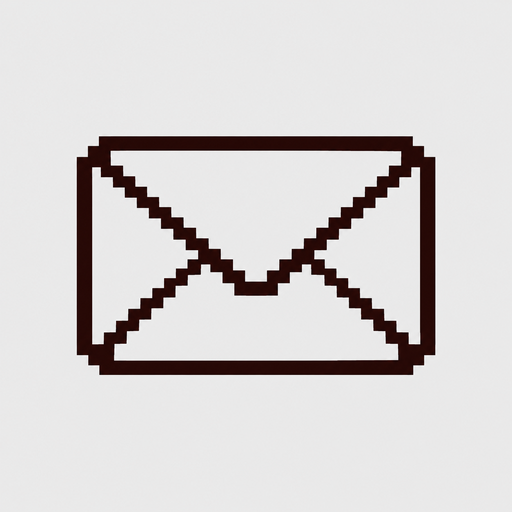
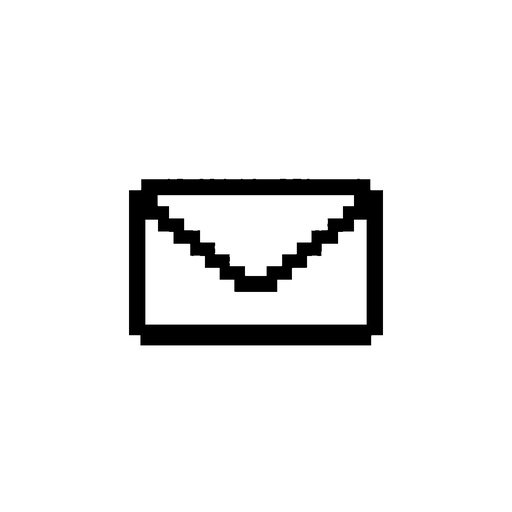
Add files via upload

Changed region(s): [[0.125, 0.25, 0.875, 0.75]]

diff --git a/index.html b/index.html
@@ -6,9 +6,9 @@
 <meta name="robots" content="noindex,nofollow">
 <meta name="referrer" content="no-referrer">
 <title>2002kids | 문자보관함</title>
-<link rel="icon" type="image/png" href="./icon-192.png">
-<link rel="apple-touch-icon" sizes="180x180" href="./apple-touch-icon.png">
-<link rel="manifest" href="./manifest.webmanifest">
+<link rel="icon" type="image/png" href="./icon-192.png?v=3">
+<link rel="apple-touch-icon" sizes="180x180" href="./apple-touch-icon.png?v=3">
+<link rel="manifest" href="./manifest.webmanifest?v=3">
 <meta name="apple-mobile-web-app-capable" content="yes">
 <meta name="apple-mobile-web-app-title" content="2002kids">
 <meta name="theme-color" content="#f2f2f2">
